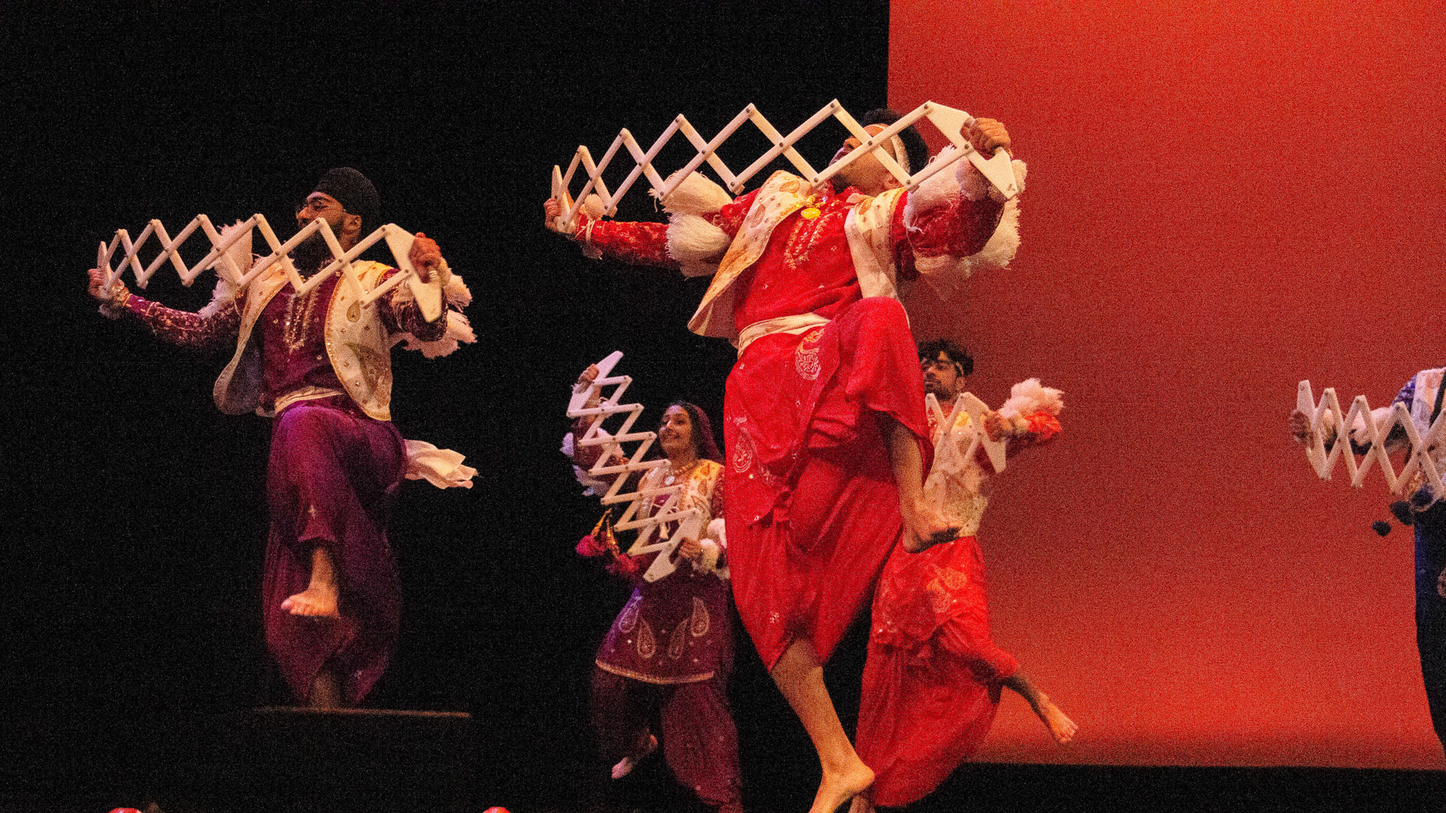
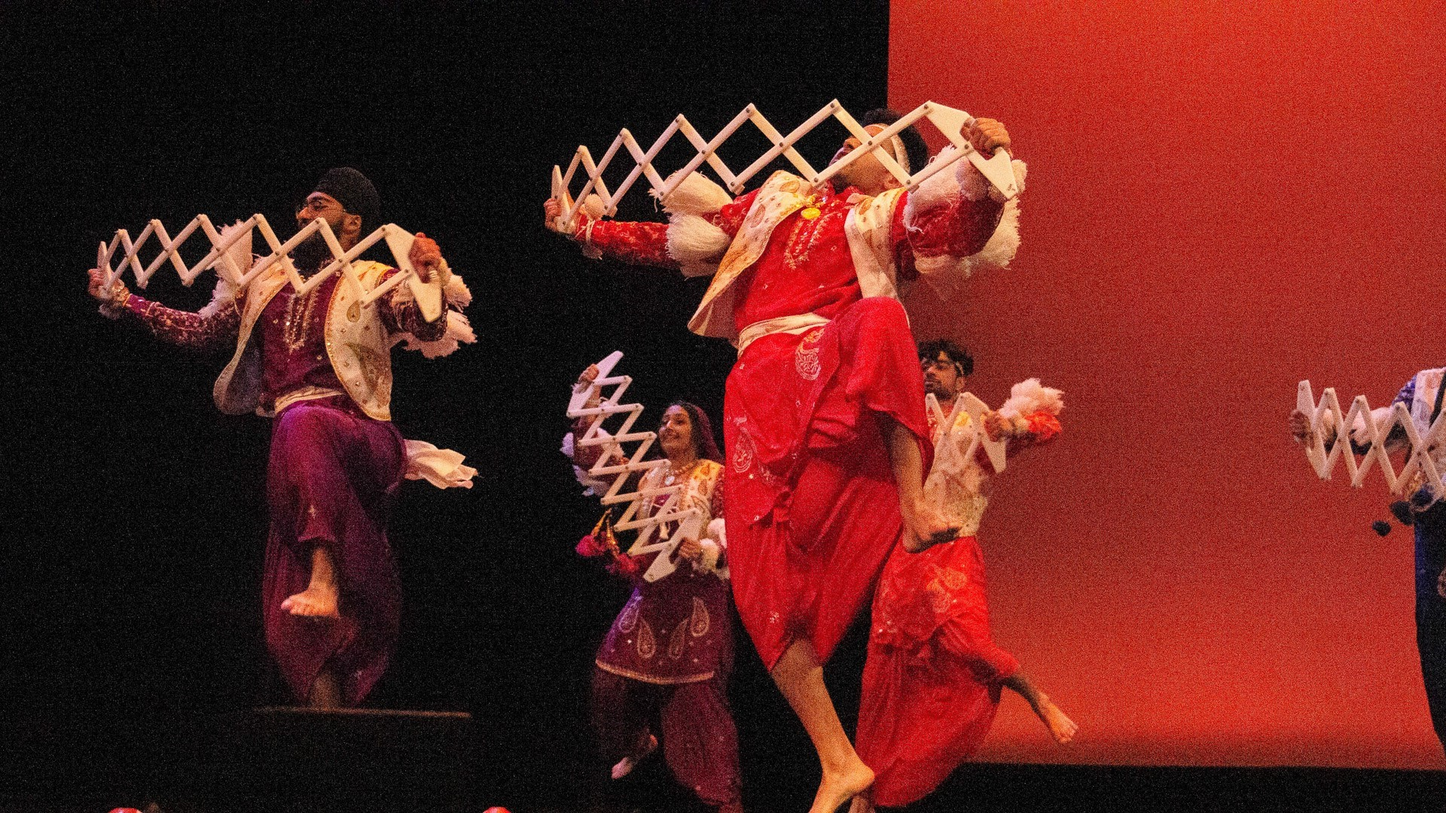
optimized background for homepage

Changed region(s): [[0.5312, 0.2444, 0.5938, 0.275]]

diff --git a/index.html b/index.html
@@ -138,7 +138,7 @@
 
             <div class="carousel-item active"
                  style="height: 105vh; background-image: url('img/Homepage/bhangra-background-2-flipped.jpg'); background-size: contain; background-repeat: repeat-x;">
-                <img alt="Image" class="h-100" src="img/Homepage/bhangra-background-2-2.png">
+                <img alt="Image" class="h-100" src="img/Homepage/bhangra-background-2-2.jpg">
                 <div class="carousel-caption">
                     <div class="container">
                         <div class="row justify-content-end">
